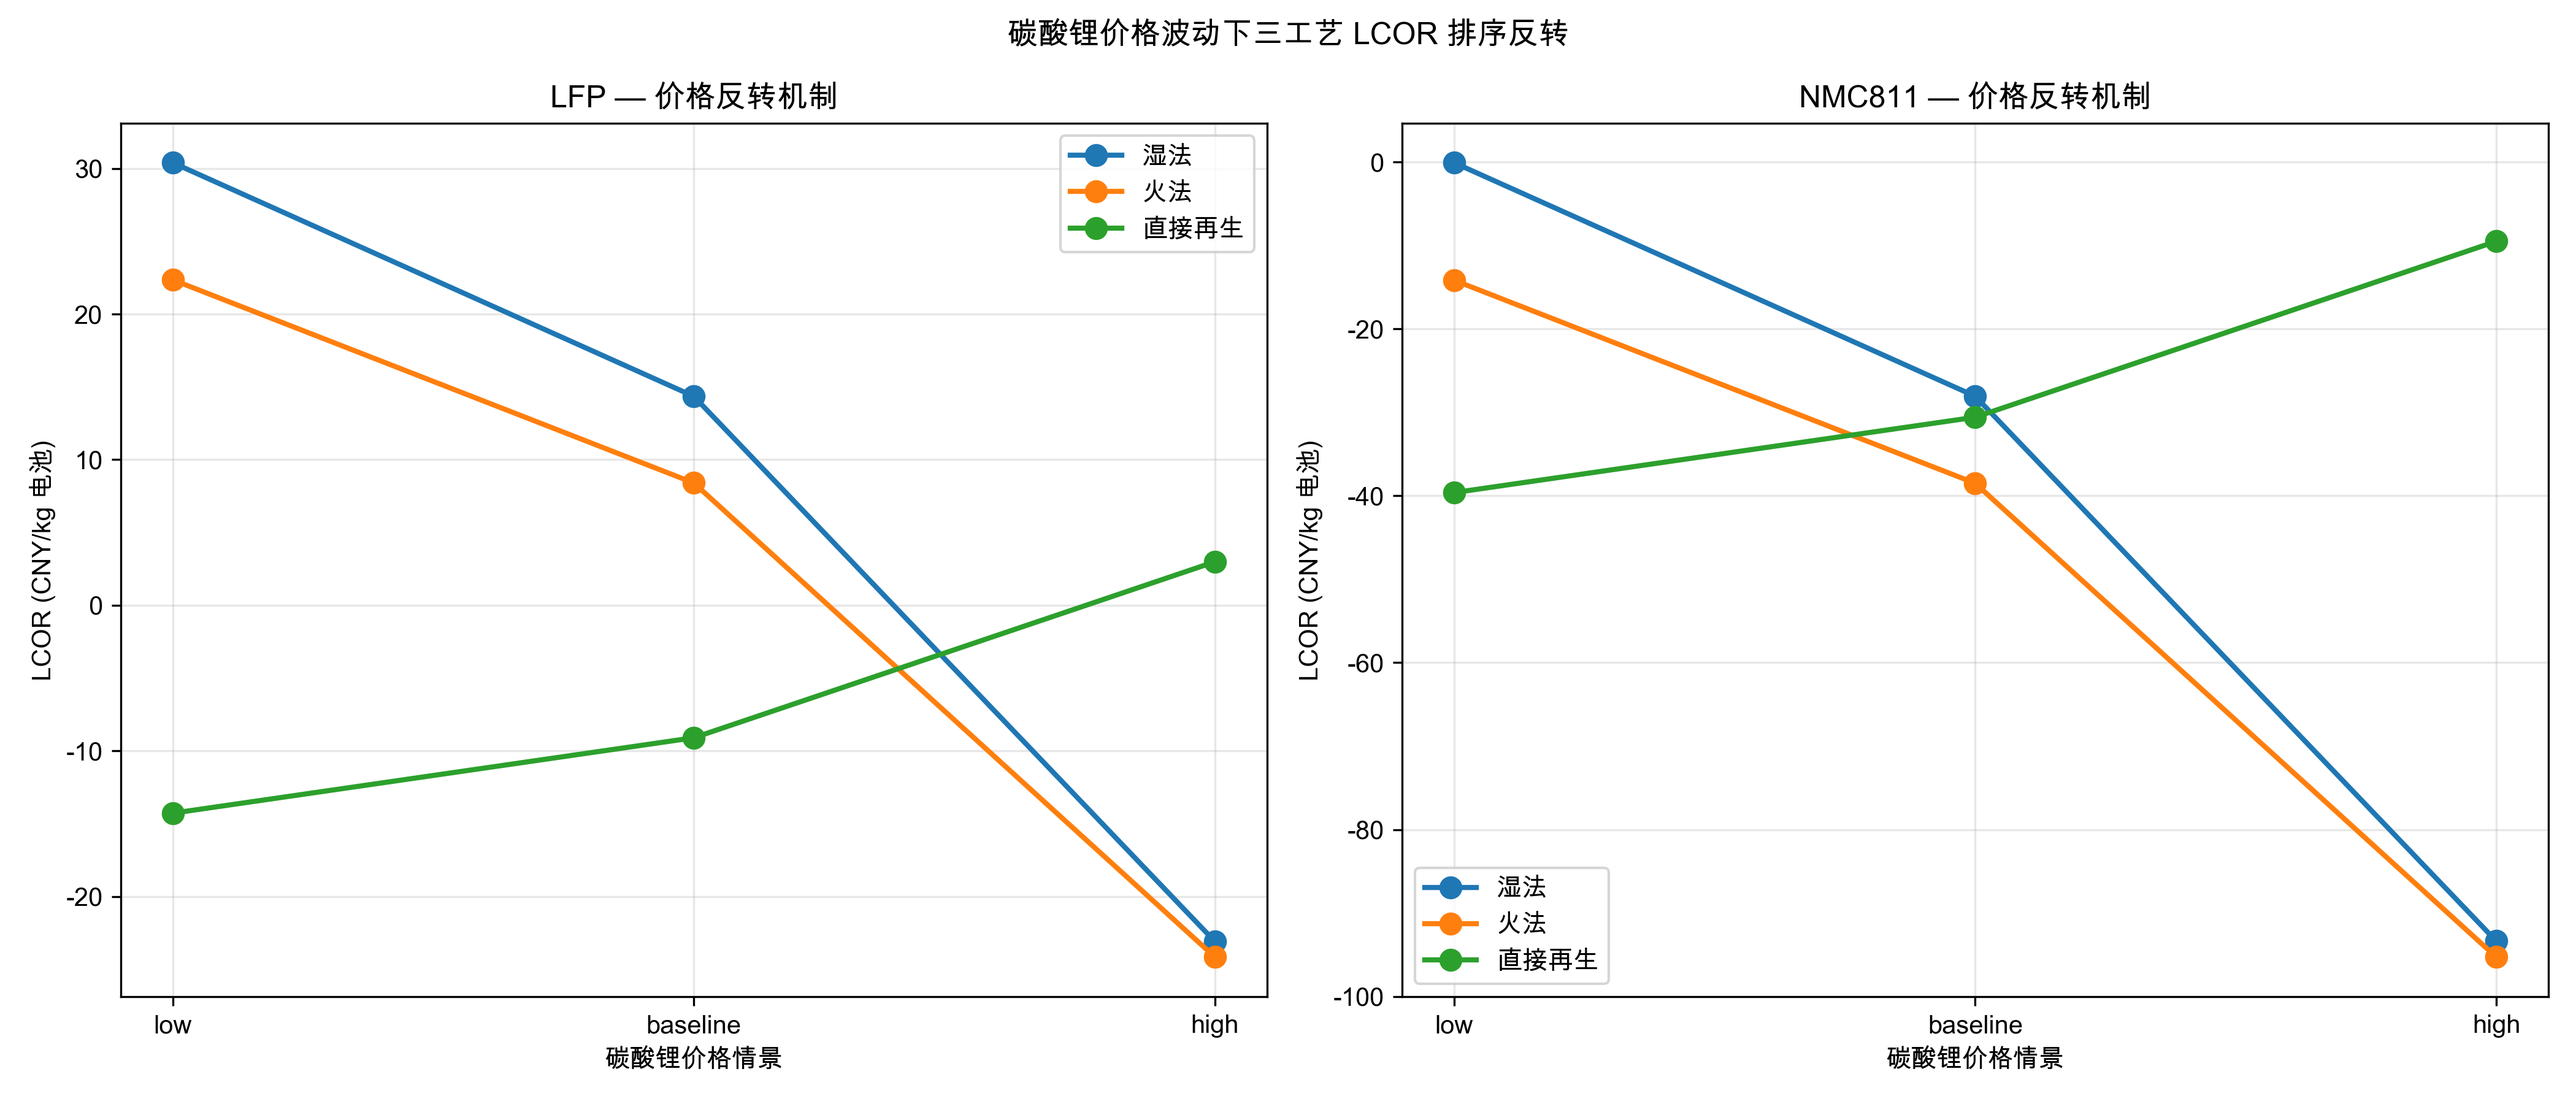
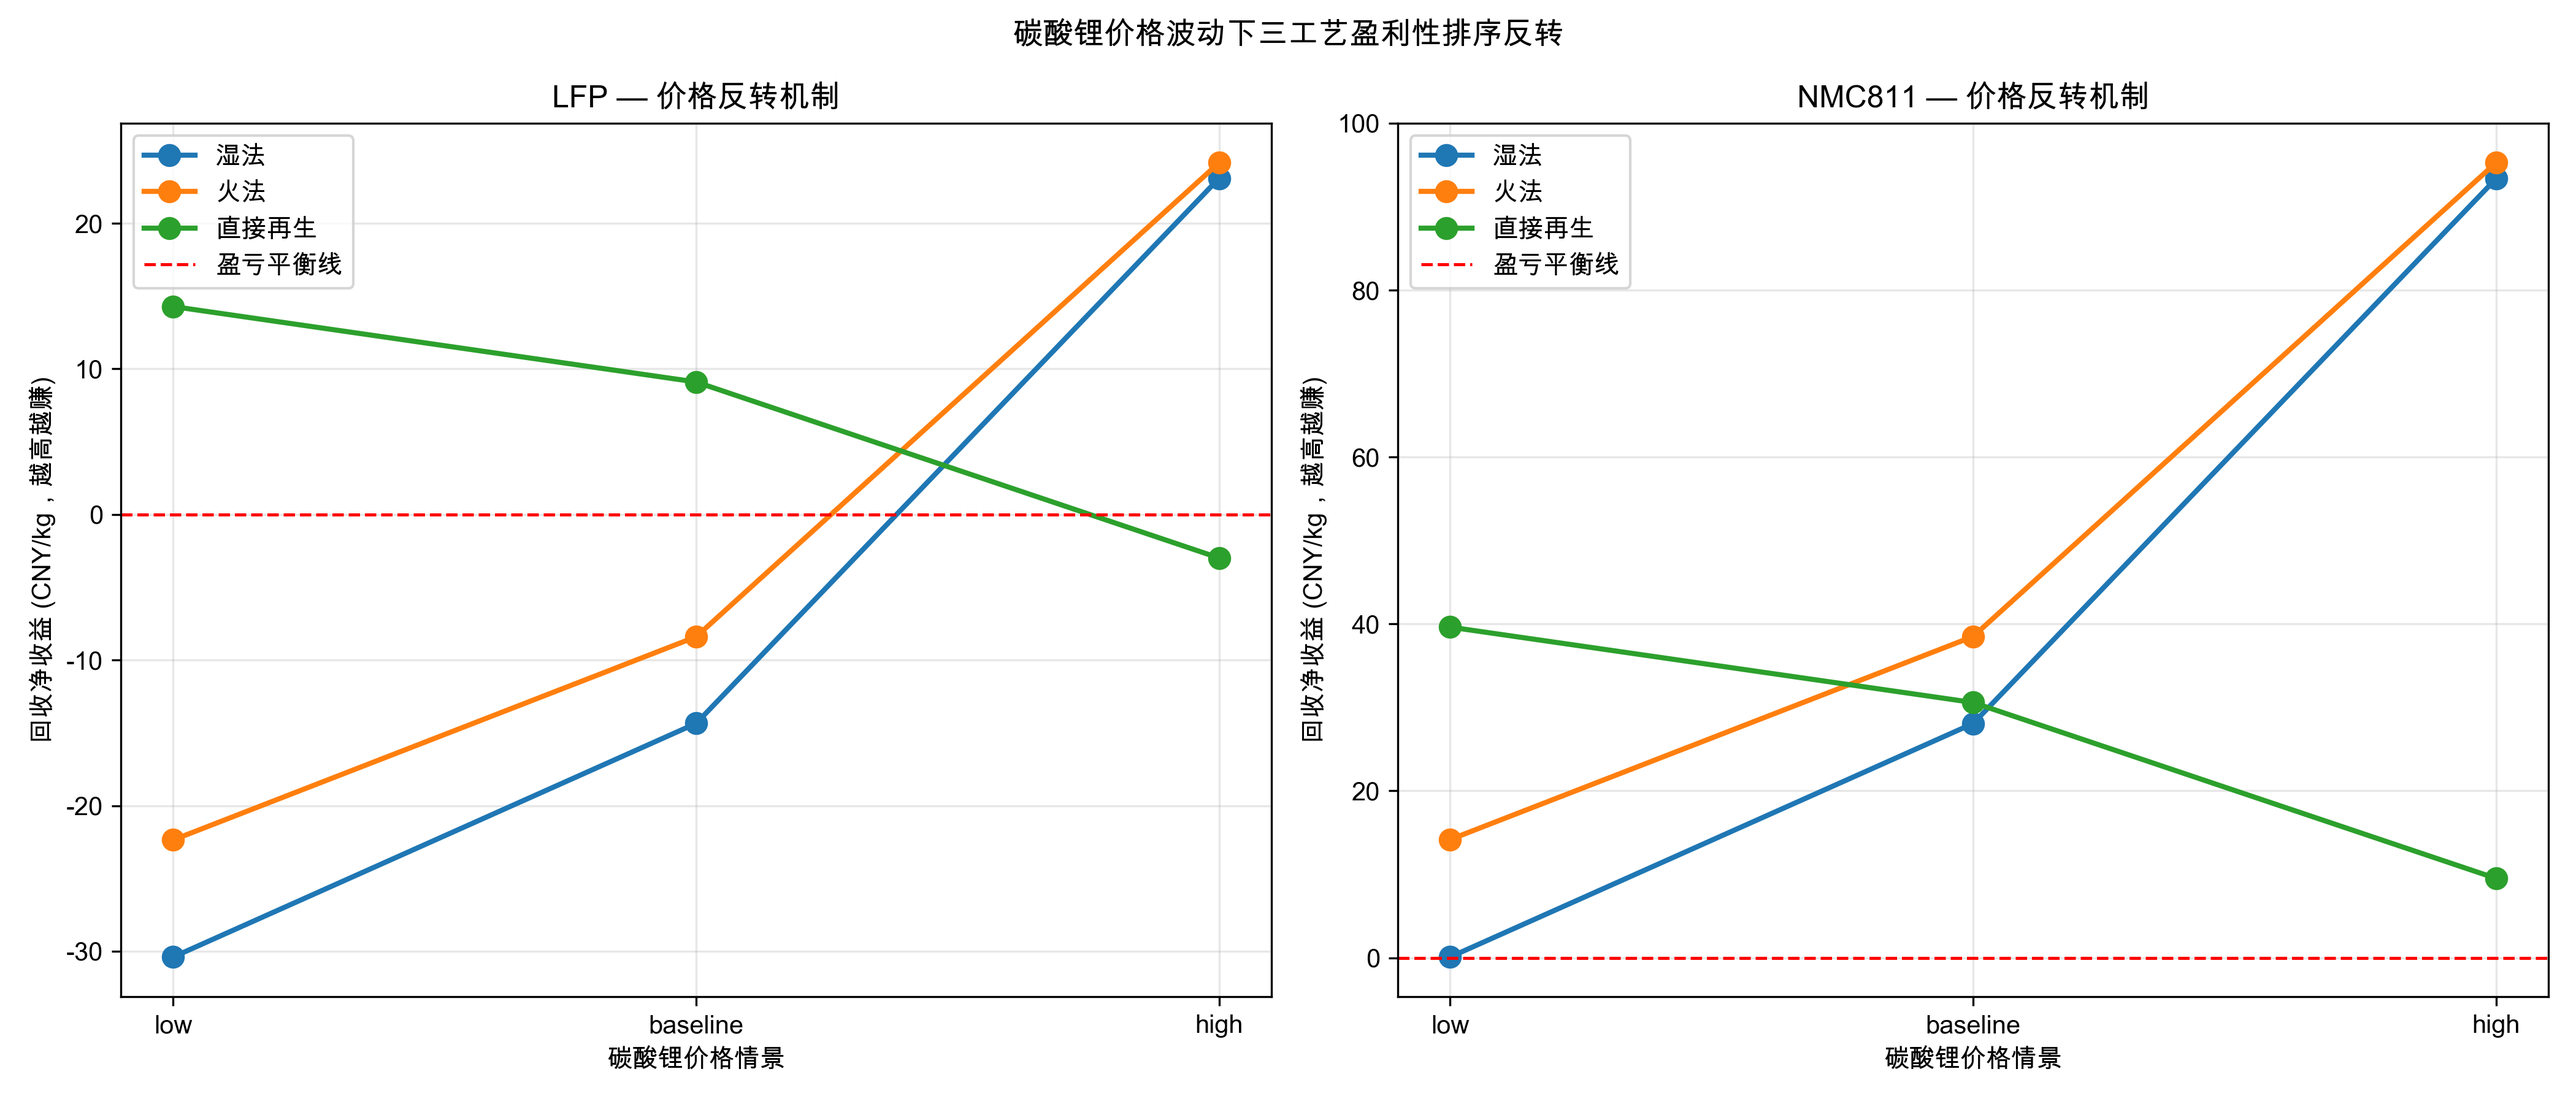
docs(report)+fix(code): §6.2 LCA数据口径修正至05_lca.py实测；新增§7.2实施路线图与资金结构
- 05_lca.py: 移除口径破损的较硬岩减排%列及其派生列（每kg电池折算原生锂的做法分母错误），输出统一为每kg电池处理量口径，原生锂对比仅保留LCE口径（文献4，58%）
- 07_make_figures.py: fig2修复ax.texts索引bug（标签误白）并放大字号至24-26pt；fig4改为净收益口径（-LCOR，越高越赚）；新增fig5b双面板图（挖矿vs回收LCE对比 + 绿电-三工艺实测）
- report §6.2: 工艺GWP表更新为lca_results.csv实测值（湿法13.32/9.86/6.40等），结论②降幅75%→52%，结论③拐点推导链修正为7.6-信用4.2=3.38；§7 P5工程行同步修正
- report 新增§7.2: 7.2.1基准价决策三道闸门（触发阈值挂钩§6.1价格反转临界点与§6.4敏感性平坦区）；7.2.2三层资金结构（公益/准商业/纯商业）
- figures_output: fig2/fig4重生成 + fig5b新增（300DPI）
- results_output/lca_results.csv: 新列结构（5列）

验证：8个脚本全链路重跑通过；tests 3/3 passed；拐点行(3.3826/-145.03/0.49/0.80)与pareto_front.csv一致

diff --git a/groups/group-03/lecture12-lib-recycling/code_implementation/07_make_figures.py b/groups/group-03/lecture12-lib-recycling/code_implementation/07_make_figures.py
@@ -40,9 +40,19 @@ def fig1():
 def fig2():
     labels = ["SOH>85%\n低速车(LSV)", "80-85%\n储能(ESS)", "70-80%\n通信基站(CBS)", "SOH<70%\n直接再生"]
     sizes = [15, 25, 35, 25]; colors = ["#FF9800", "#2196F3", "#4CAF50", "#9E9E9E"]
-    fig, ax = plt.subplots(figsize=(8, 6))
-    ax.pie(sizes, labels=labels, colors=colors, autopct="%1.0f%%", startangle=90, textprops={"fontsize": 10})
-    plt.title("退役动力电池 SOH 三级分流结构"); plt.tight_layout()
+    fig, ax = plt.subplots(figsize=(9, 7))
+    autopct_fmt = lambda pct: f"{pct:.0f}%"
+    wedges, texts, autotexts = ax.pie(sizes, labels=labels, colors=colors, autopct=autopct_fmt,
+           startangle=90, labeldistance=1.12, pctdistance=0.72,
+           textprops={"fontsize": 24},
+           wedgeprops={"edgecolor": "white", "linewidth": 2})
+    for t in texts:
+        t.set_fontsize(24)
+    for t in autotexts:  # 只给百分比数字加粗白色，勿动标签
+        t.set_fontsize(26); t.set_color("white"); t.set_fontweight("bold")
+    ax.set_title("退役动力电池 SOH 三级分流结构", fontsize=26, fontweight="bold", pad=18)
+    plt.tight_layout(pad=2.5)
+    fig.subplots_adjust(left=0.18, right=0.82, top=0.86, bottom=0.06)
     plt.savefig(os.path.join(FIGURES_DIR, "fig2_soh_triage.png"), dpi=FIG_DPI); plt.close()
     print("[07] fig2 done")
 
@@ -69,11 +79,12 @@ def fig4():
             ys = []
             for sc in ["low", "baseline", "high"]:
                 row = next(r for r in data if r["chemistry"] == chem and r["price_scenario"] == sc and r["route"] == route)
-                ys.append(float(row["lcor_CNY_per_kg"]))
+                ys.append(-float(row["lcor_CNY_per_kg"]))
             ax.plot(["low", "baseline", "high"], ys, "o-", label=route_labels[route], linewidth=2, markersize=8)
-        ax.set_xlabel("碳酸锂价格情景"); ax.set_ylabel("LCOR (CNY/kg 电池)")
+        ax.axhline(0, color="red", linestyle="--", linewidth=1.2, label="盈亏平衡线")
+        ax.set_xlabel("碳酸锂价格情景"); ax.set_ylabel("回收净收益 (CNY/kg，越高越赚)")
         ax.set_title(f"{chem} — 价格反转机制"); ax.legend(); ax.grid(True, alpha=0.3)
-    plt.suptitle("碳酸锂价格波动下三工艺 LCOR 排序反转"); plt.tight_layout()
+    plt.suptitle("碳酸锂价格波动下三工艺盈利性排序反转"); plt.tight_layout()
     plt.savefig(os.path.join(FIGURES_DIR, "fig4_price_reversal.png"), dpi=FIG_DPI); plt.close()
     print("[07] fig4 done")
 
@@ -99,6 +110,60 @@ def fig5():
     plt.savefig(os.path.join(FIGURES_DIR, "fig5_lca_contribution.png"), dpi=FIG_DPI); plt.close()
     print("[07] fig5 done")
 
+
+def fig5b():
+    """第11页配图：左=挖矿vs回收（LCE口径大结论）；右=绿电-三工艺GWP实测（lca_results.csv）。"""
+    fig, (axL, axR) = plt.subplots(1, 2, figsize=(14, 6.2),
+                                   gridspec_kw={"width_ratios": [1, 1.25]})
+    # ---- 左：两大类对比 ----
+    cats = ["原生硬岩锂\n（挖矿）", "再生锂\n（废电池回收）"]
+    vals = [14.5, 6.1]
+    bars = axL.bar(cats, vals, color=["#8d6e63", "#4CAF50"], width=0.5,
+                   edgecolor="white", linewidth=2)
+    for b, v in zip(bars, vals):
+        axL.text(b.get_x() + b.get_width()/2, v + 0.35, f"{v}", ha="center",
+                 fontsize=22, fontweight="bold", color="#222")
+    axL.annotate("", xy=(1.0, 7.6), xytext=(0.05, 14.8),
+                 arrowprops=dict(arrowstyle="-|>", color="#E8A33D", lw=3,
+                                 connectionstyle="arc3,rad=-0.25"))
+    axL.text(0.5, 16.1, "减排 58%", fontsize=22, fontweight="bold",
+             color="#E8A33D", ha="center",
+             bbox=dict(boxstyle="round,pad=0.3", fc="white", ec="#E8A33D", alpha=0.9))
+    axL.set_ylabel("碳强度 (kg CO2e / kg LCE)", fontsize=15)
+    axL.set_title("造 1 公斤碳酸锂：挖矿 vs 回收", fontsize=18, fontweight="bold", pad=12)
+    axL.tick_params(axis="x", labelsize=14)
+    axL.tick_params(axis="y", labelsize=12)
+    axL.set_ylim(0, 17)
+    axL.grid(True, axis="y", alpha=0.3)
+    # ---- 右：绿电-三工艺实测 ----
+    data = load_csv("lca_results.csv")
+    route_labels = {"hydrometallurgy": "湿法", "pyrometallurgy": "火法", "direct_recycling": "直接再生"}
+    route_colors = {"hydrometallurgy": "#2196F3", "pyrometallurgy": "#FF9800", "direct_recycling": "#4CAF50"}
+    for route in ["hydrometallurgy", "pyrometallurgy", "direct_recycling"]:
+        rows = [x for x in data if x["route"] == route and x["chemistry"] == "LFP"]
+        gpr = [float(x["green_power_ratio"]) * 100 for x in rows]
+        gwp = [float(x["gwp_kgCO2e_per_kg"]) for x in rows]
+        axR.plot(gpr, gwp, "o-", label=route_labels[route], linewidth=2.5,
+                 markersize=9, color=route_colors[route])
+    axR.axhline(0, color="red", linestyle="--", linewidth=1)
+    axR.annotate("湿法 13.32→6.40\n降幅 52%", xy=(100, 6.40), xytext=(62, 15.5),
+                 fontsize=13, color="#2196F3", fontweight="bold",
+                 arrowprops=dict(arrowstyle="->", color="#2196F3", lw=1.5))
+    axR.set_xlabel("绿电消纳比例 (%)", fontsize=15)
+    axR.set_ylabel("GWP (kg CO2e / kg 废电池)", fontsize=15)
+    axR.set_title("回收环节：绿电比例 × 三工艺（LFP 实测）", fontsize=18, fontweight="bold", pad=12)
+    axR.legend(fontsize=13); axR.grid(True, alpha=0.3)
+    axR.tick_params(labelsize=12)
+    fig.text(0.5, 0.015,
+             "注：左图 LCE 口径（文献4），比值恒定；右图为 05_lca.py 实测（每 kg 废电池口径）——"
+             "拐点方案 GWP 3.38 = 湿法 0.81 + 80% 绿电 + 梯次延寿信用",
+             ha="center", fontsize=12, color="#555",
+             bbox=dict(boxstyle="round,pad=0.4", fc="#f5f0e6", ec="#E8A33D"))
+    plt.tight_layout(rect=[0, 0.09, 1, 1])
+    plt.savefig(os.path.join(FIGURES_DIR, "fig5b_lca_simple.png"), dpi=FIG_DPI)
+    plt.close()
+    print("[07] fig5b done")
+
 def fig6():
     data = load_csv("sensitivity.csv")
     sohs = sorted(set(float(r["soh_threshold"]) for r in data))
@@ -107,23 +172,23 @@ def fig6():
     for i, s in enumerate(sohs):
         for j, p in enumerate(prices):
             row = next(r for r in data if float(r["soh_threshold"]) == s and r["price_scenario"] == p)
-            matrix[i, j] = float(row["lcor"])
+            matrix[i, j] = -float(row["lcor"])  # 净收益 = -LCOR，越高越赚
     fig, ax = plt.subplots(figsize=(8, 6))
-    im = ax.imshow(matrix, cmap="RdYlGn_r", aspect="auto")
+    im = ax.imshow(matrix, cmap="RdYlGn", aspect="auto")  # 绿=高净收益（越赚越绿）
     ax.set_xticks(range(len(prices))); ax.set_xticklabels([price_labels[p] for p in prices])
     ax.set_yticks(range(len(sohs))); ax.set_yticklabels([f"{s:.0%}" for s in sohs])
     ax.set_xlabel("碳酸锂价格"); ax.set_ylabel("梯次终止 SOH 阈值")
-    ax.set_title("LCOR 敏感性热力图 (价格 x SOH 阈值)")
+    ax.set_title("净收益敏感性热力图 (价格 x SOH 阈值，越高越赚)")
     for i in range(len(sohs)):
         for j in range(len(prices)):
             ax.text(j, i, f"{matrix[i,j]:.1f}", ha="center", va="center", color="black", fontsize=9)
-    plt.colorbar(im, label="LCOR (CNY/kg)"); plt.tight_layout()
+    plt.colorbar(im, label="净收益 (CNY/kg，越高越赚)"); plt.tight_layout()
     plt.savefig(os.path.join(FIGURES_DIR, "fig6_sensitivity_heatmap.png"), dpi=FIG_DPI); plt.close()
     print("[07] fig6 done")
 
 def fig7():
     data = load_csv("pareto_front.csv")
-    gwp = [float(r["gwp"]) for r in data]; lcor = [float(r["lcor"]) for r in data]
+    gwp = [float(r["gwp"]) for r in data]; lcor = [-float(r["lcor"]) for r in data]  # 净收益 = -LCOR
     feasible = [r["feasible"] == "True" for r in data]
     is_knee = [r.get("is_knee", "False") == "True" for r in data]
     is_anchor = [r.get("is_anchor", "False") == "True" for r in data]
@@ -134,7 +199,7 @@ def fig7():
         if k: ax.scatter(g, l, c="red", s=200, marker="*", zorder=5, label="拐点")
     for g, l, a in zip(gwp, lcor, is_anchor):
         if a: ax.scatter(g, l, c="green", s=100, marker="s", zorder=4, label="锚点")
-    ax.set_xlabel("GWP (kg CO2e/kg 电池)"); ax.set_ylabel("LCOR (CNY/kg 电池)")
+    ax.set_xlabel("GWP (kg CO2e/kg 电池)"); ax.set_ylabel("净收益 (CNY/kg 电池，越高越赚)")
     ax.set_title("多目标帕累托最优前沿与拐点标定")
     handles, labels = ax.get_legend_handles_labels()
     by_label = dict(zip(labels, handles)); ax.legend(by_label.values(), by_label.keys())

diff --git a/groups/group-03/lecture12-lib-recycling/code_implementation/05_lca.py b/groups/group-03/lecture12-lib-recycling/code_implementation/05_lca.py
@@ -26,15 +26,11 @@ def calculate_lca(route, chemistry, green_power_ratio=0.3, mass_t=50000.0):
     disassembly_gwp = 0.05
     power_gwp = electricity_kwh * grid_cf
     total_gwp = transport_gwp + disassembly_gwp + gwp_process + power_gwp
-    li_content = float(chem["li_content_kg_per_kg"])
-    primary_brine_gwp = 1.5 * li_content
-    primary_spodumene_gwp = 14.5 * li_content
     water_total = water + 0.01
+    # 注：与原生锂的对比采用 LCE 口径（文献4：再生锂 6.1 vs 硬岩锂 14.5 kg CO2e/kg LCE，减排58%），
+    # 与本表每 kg 电池处理量口径分母不同，不在表内混算（旧版按每kg电池折算原生锂的做法口径错误，已移除）
     return {"route": route, "chemistry": chemistry, "green_power_ratio": green_power_ratio,
-        "gwp_kgCO2e_per_kg": round(total_gwp, 4), "water_L_per_kg": round(water_total, 4),
-        "primary_brine_gwp": round(primary_brine_gwp, 4),
-        "primary_spodumene_gwp": round(primary_spodumene_gwp, 4),
-        "gwp_reduction_vs_spodumene_pct": round((1 - total_gwp / primary_spodumene_gwp) * 100, 1) if primary_spodumene_gwp > 0 else 0}
+        "gwp_kgCO2e_per_kg": round(total_gwp, 4), "water_L_per_kg": round(water_total, 4)}
 
 def run_lca():
     results = []
@@ -46,10 +42,11 @@ def run_lca():
     with open(out, "w", newline="", encoding="utf-8") as f:
         w = csv.DictWriter(f, fieldnames=results[0].keys()); w.writeheader(); w.writerows(results)
     print("=" * 80); print("全生命周期 LCA 核算"); print("=" * 80)
-    print(f"{'工艺':<18}{'化学':<8}{'绿电比':>8}{'GWP(kgCO2e/kg)':>18}{'水耗(L/kg)':>12}{'较硬岩减排%':>14}")
-    print("-" * 80)
+    print(f"{'工艺':<18}{'化学':<8}{'绿电比':>8}{'GWP(kgCO2e/kg)':>18}{'水耗(L/kg)':>12}")
+    print("-" * 70)
     for r in results:
-        print(f"{r['route']:<18}{r['chemistry']:<8}{r['green_power_ratio']:>8.0%}{r['gwp_kgCO2e_per_kg']:>18.4f}{r['water_L_per_kg']:>12.4f}{r['gwp_reduction_vs_spodumene_pct']:>14.1f}")
+        print(f"{r['route']:<18}{r['chemistry']:<8}{r['green_power_ratio']:>8.0%}{r['gwp_kgCO2e_per_kg']:>18.4f}{r['water_L_per_kg']:>12.4f}")
+    print("\n注：与原生硬岩锂对比采用 LCE 口径（文献4，减排 58%），见报告 §6.2 结论①")
     print(f"\n输出: {out}"); print("=" * 80)
     return results
 

diff --git a/groups/group-03/lecture12-lib-recycling/README.md b/groups/group-03/lecture12-lib-recycling/README.md
@@ -15,7 +15,7 @@ lecture12-lib-recycling/
 │   ├── 04_echelon_tea.py         # 模块3a：梯次 TEA + 回收 TEA + 价格反转
 │   ├── 05_lca.py                 # 模块3b：LCA GWP/水耗
 │   ├── 06_pareto_sensitivity.py  # 模块3c：帕累托寻优 + 敏感性
-│   ├── 07_make_figures.py        # 模块4：7 张图
+│   ├── 07_make_figures.py        # 模块4：8 张图（含 fig5b）
 │   └── tests/test_policy_engine.py
 ├── data_cohort/                  # 输入数据
 ├── results_output/               # 计算结果

diff --git a/groups/group-03/lecture12-lib-recycling/results_output/figure_index.md b/groups/group-03/lecture12-lib-recycling/results_output/figure_index.md
@@ -7,3 +7,4 @@
 | fig5 | fig5_lca_contribution.png | 再生路径GWP显著低于原生硬岩锂 | 05_lca.py |
 | fig6 | fig6_sensitivity_heatmap.png | SOH阈值与价格对LCOR显著交互 | 06_pareto_sensitivity.py |
 | fig7 | fig7_pareto_front.png | 拐点方案平衡环境与经济目标 | 06_pareto_sensitivity.py |
+| fig5b | fig5b_lca_simple.png | 挖矿vs回收对比与绿电-三工艺实测（§6.2） | 07_make_figures.py |
